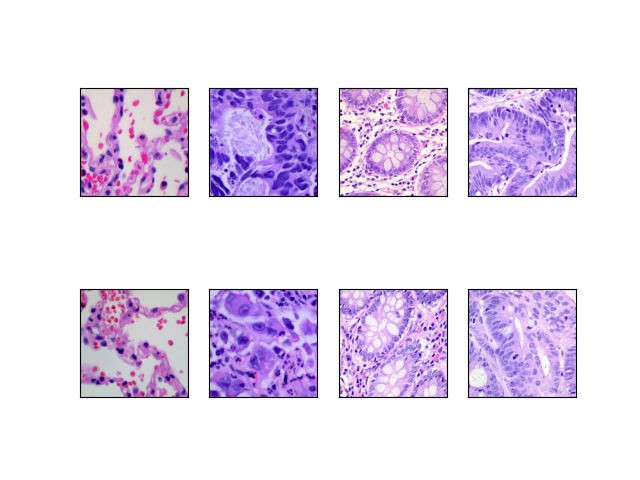
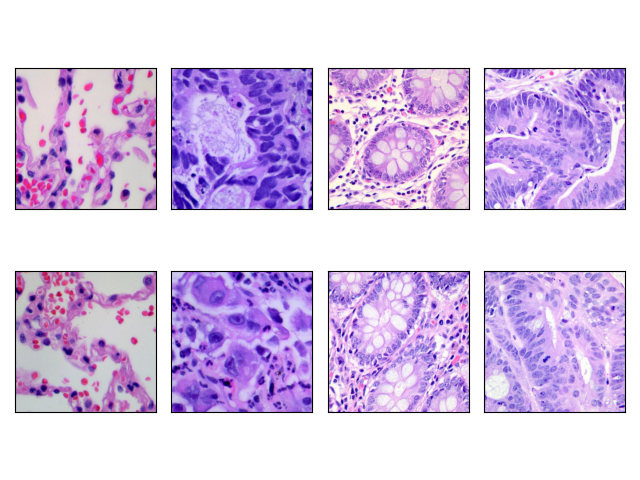
Tight layout for input images

diff --git a/xai/experiments/latent_space_distribution/plot_mnist_input_data.py b/xai/experiments/latent_space_distribution/plot_mnist_input_data.py
@@ -35,5 +35,6 @@ test_data_digits_reshaped = test_data_digits[[0, 2, 4, 1, 3, 5]]
 fig, axs = plt.subplots(2, 3, sharex=True, sharey=True, subplot_kw={'xticks': [], 'yticks': []})
 for ax, input_data in zip(axs.flat, test_data_digits_reshaped):
     ax.imshow(input_data[0]*-1, cmap='gist_gray')
+fig.tight_layout()
 
 plt.savefig(FIGURES_DIR / OUTPUT_FNAME, format='png')

diff --git a/xai/experiments/cancer_classification/plot_cancer_input_data.py b/xai/experiments/cancer_classification/plot_cancer_input_data.py
@@ -50,5 +50,5 @@ plt.imshow(test_data_images[0])
 fig, axs = plt.subplots(2, 4, sharex=True, sharey=True, subplot_kw={'xticks': [], 'yticks': []})
 for ax, input_data in zip(axs.flat, test_data_images):
     ax.imshow(input_data)
-
+fig.tight_layout()
 plt.savefig(FIGURES_DIR / OUTPUT_FNAME, format='png')
